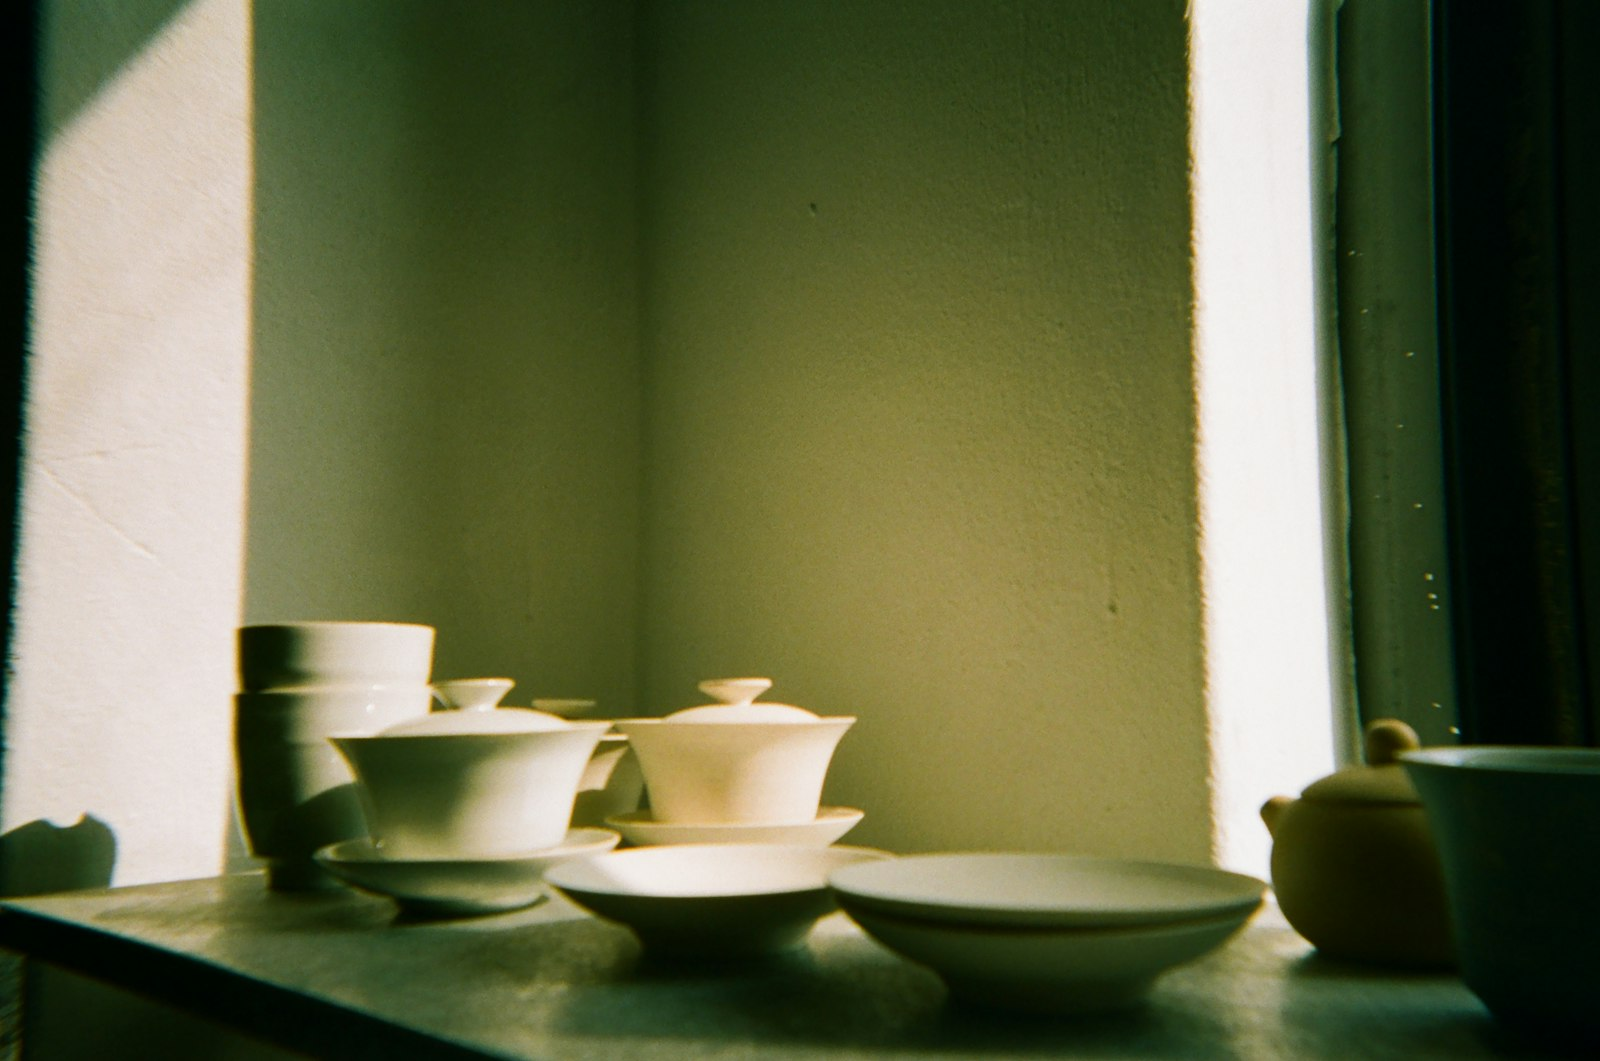
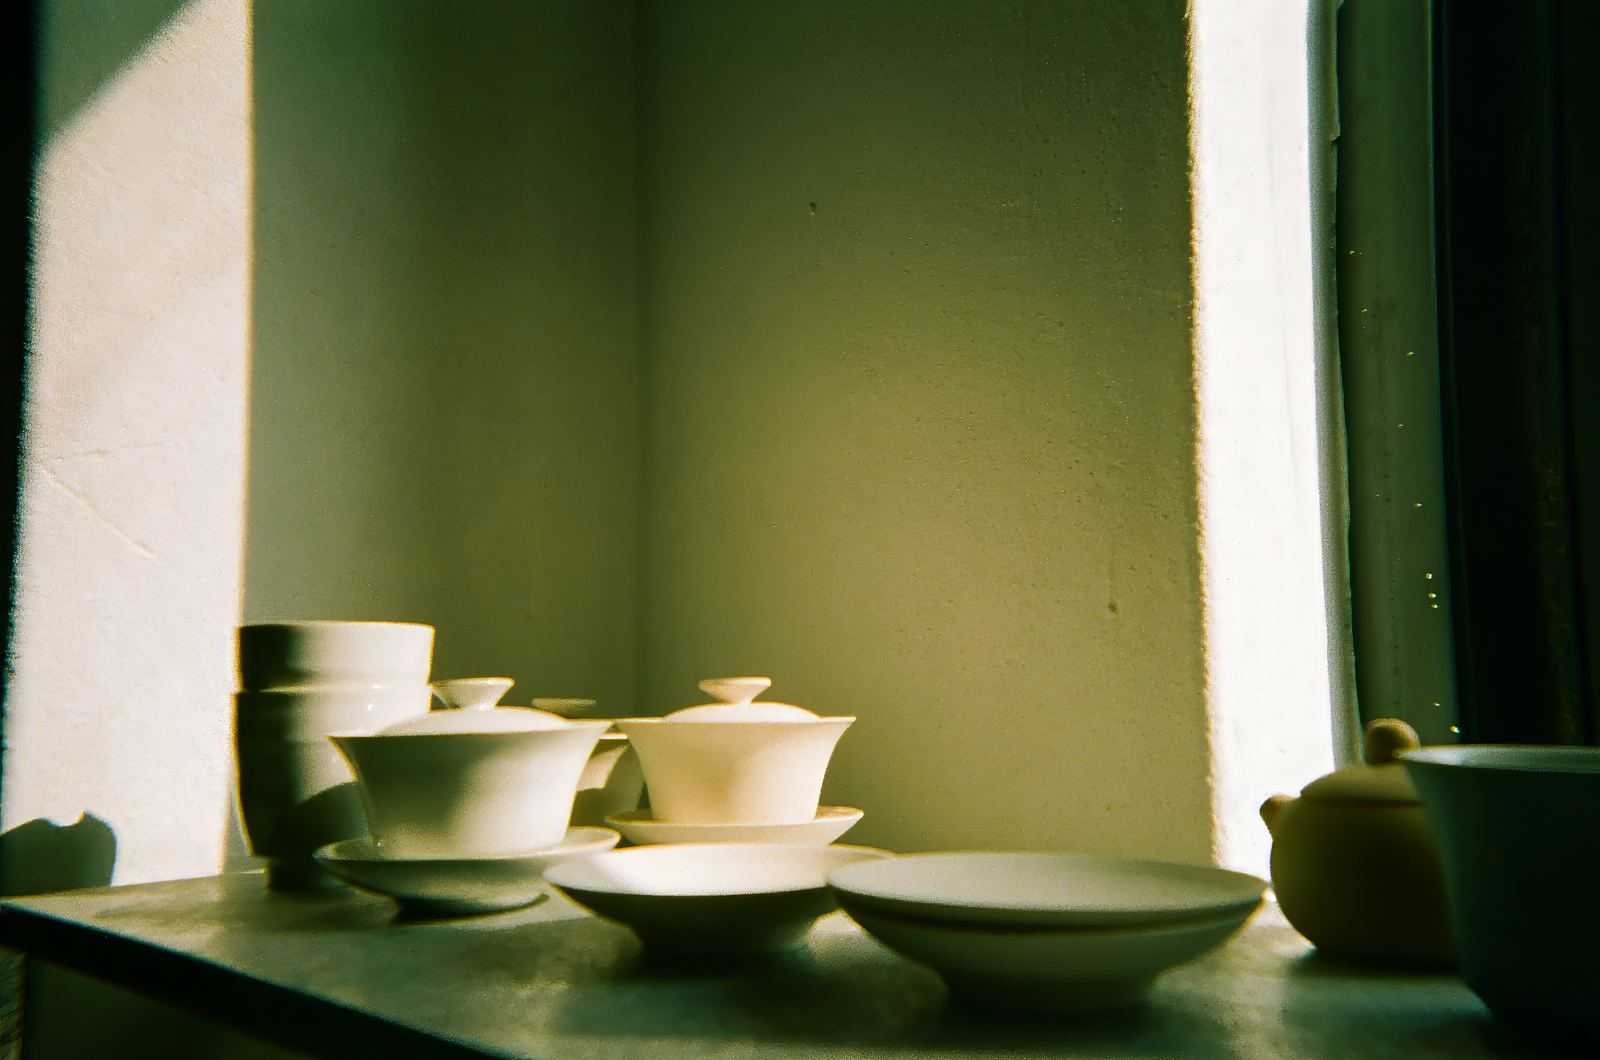
Use the sharpened olive-wall hero and give it an even split with a taller panel

Changed region(s): [[0.5312, 0.9962, 0.5625, 1.0], [0.0, 0.4047, 0.0312, 0.4358], [0.0, 0.3113, 0.0312, 0.3425]]

diff --git a/src/components/sections/hero-two-column-with-photo.tsx b/src/components/sections/hero-two-column-with-photo.tsx
@@ -10,7 +10,7 @@ export function HeroTwoColumnWithPhoto({
   subheadline,
   cta,
   photo,
-  wide = false,
+  tallPhoto = false,
   className,
   ...props
 }: {
@@ -19,18 +19,13 @@ export function HeroTwoColumnWithPhoto({
   subheadline: ReactNode
   cta?: ReactNode
   photo?: ReactNode
-  // Gives the photo 58% of the row and stops it stretching, so the whole frame shows uncropped.
-  wide?: boolean
+  // Fixes the photo at 13:10 instead of letting the text column decide its height.
+  tallPhoto?: boolean
 } & ComponentProps<'section'>) {
   return (
     <section className={clsx('py-16', className)} {...props}>
-      <Container className={clsx('flex gap-16 max-xl:flex-col', wide && 'xl:items-center')}>
-        <div
-          className={clsx(
-            'flex flex-col items-start justify-center gap-6',
-            wide ? 'xl:flex-42' : 'flex-1',
-          )}
-        >
+      <Container className={clsx('flex gap-16 max-xl:flex-col', tallPhoto && 'xl:items-center')}>
+        <div className="flex flex-1 flex-col items-start justify-center gap-6">
           {eyebrow}
           <Heading className="max-w-5xl">{headline}</Heading>
           <Text size="lg" className="flex max-w-3xl flex-col gap-4">
@@ -40,8 +35,8 @@ export function HeroTwoColumnWithPhoto({
         </div>
         <div
           className={clsx(
-            'flex overflow-hidden rounded-xl outline -outline-offset-1 outline-black/5 dark:outline-white/5',
-            wide ? 'xl:flex-58 *:h-auto' : 'flex-1 *:object-cover',
+            'flex flex-1 overflow-hidden rounded-xl outline -outline-offset-1 outline-black/5 *:object-cover dark:outline-white/5',
+            tallPhoto && 'xl:aspect-13/10 *:h-full',
           )}
         >
           {photo}

diff --git a/src/app/(store)/compare/page.tsx b/src/app/(store)/compare/page.tsx
@@ -6,12 +6,12 @@ import type { HeroPhoto } from '@/features/landing/hero'
 const options: { photo: HeroPhoto; label: string; note: string }[] = [
   {
     photo: 'teaware',
-    label: 'B — olive wall, 58% column, full frame',
-    note: 'Chanhee Lee. Carries the brand hue but is a soft film scan, so it is shown uncropped and never enlarged.',
+    label: 'B — olive wall, 50/50 column, 13:10 panel',
+    note: 'Chanhee Lee, sharpened by hand. Carries the brand hue. The 13:10 panel keeps B’s height at an even split, trimming 14% off the sides at the same magnification.',
   },
   {
     photo: 'windowsill',
-    label: 'A — windowsill, 50/50 column',
+    label: 'A — windowsill, 50/50 column, text-driven height',
     note: 'Danielle-Claude Bélanger. Sharpest of the shortlist and shows the product, but sits neutral against the palette.',
   },
 ]

diff --git a/src/features/landing/hero.tsx b/src/features/landing/hero.tsx
@@ -9,23 +9,23 @@ const photos = {
     src: '/images/hero-windowsill.jpg',
     alt: 'Two hand-built stoneware vases and a stack of plates on a windowsill',
     height: 1067,
-    wide: false,
+    tall: false,
   },
   teaware: {
     src: '/images/hero-teaware.jpg',
     alt: 'Stoneware cups and shallow bowls on a table against an olive wall, in low afternoon light',
-    height: 1061,
-    wide: true,
+    height: 1060,
+    tall: true,
   },
 } as const
 
 export type HeroPhoto = keyof typeof photos
 
 export function LandingHero({ photo = 'windowsill' }: { photo?: HeroPhoto }) {
-  const { src, alt, height, wide } = photos[photo]
+  const { src, alt, height, tall } = photos[photo]
   return (
     <HeroTwoColumnWithPhoto
-      wide={wide}
+      tallPhoto={tall}
       eyebrow={
         <AnnouncementBadge
           href="/about"

diff --git a/scripts/fetch-images.ts b/scripts/fetch-images.ts
@@ -23,6 +23,8 @@ const assignments: { file: string; id: string }[] = [
   { file: 'wide-mouth-vessel', id: 'jKg4C87JB3U' },
   { file: 'hero-vases', id: 'yCdCM36X4mc' },
   { file: 'hero-windowsill', id: '4yYK5SiGj6E' },
+  // The shipped hero-teaware.jpg is sharpened by hand afterwards; re-running this overwrites that.
+  { file: 'hero-teaware', id: 'Xow_RU8rcv4' },
   { file: 'hanging-pendant-shade', id: 'aRcwkYv7870' },
   { file: 'wall-sconce', id: '-QrJeaADUBM' },
   { file: 'candle-holder-trio', id: 'X9SuSIoUcJA' },
